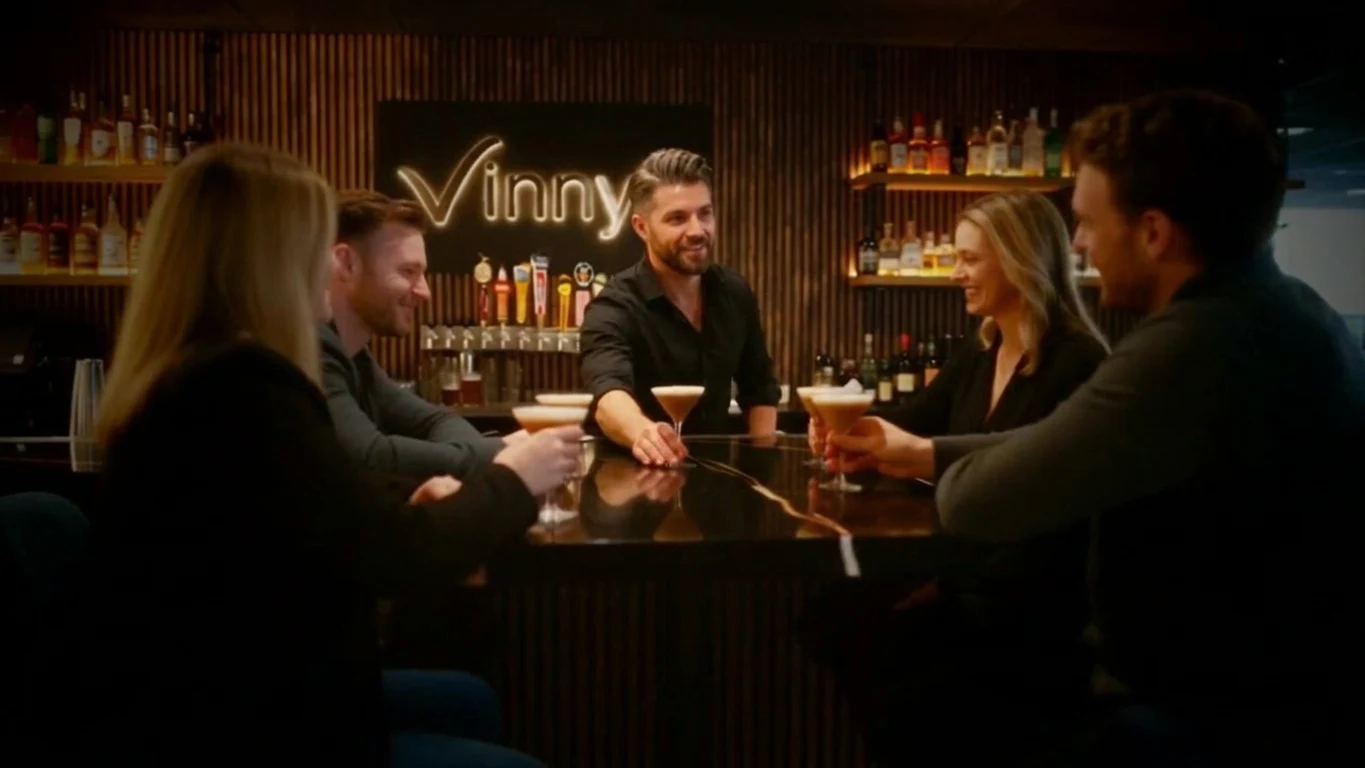
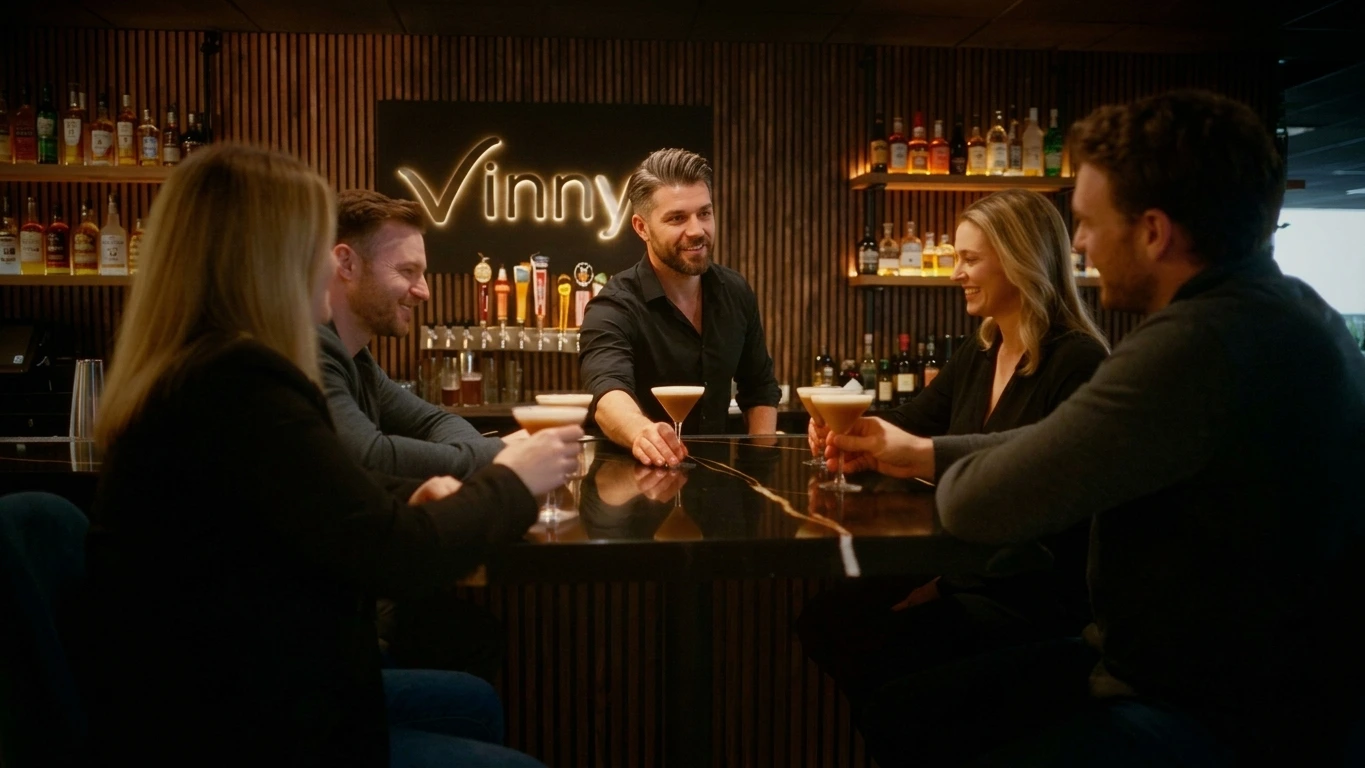
Replace Happy Hour image with sharper owner supplied version

diff --git a/docs/supplied-photography.md b/docs/supplied-photography.md
@@ -13,3 +13,5 @@ The Product Owner supplied five JPEGs and authorized resizing for site use. WebP
 The upload filenames contain “Code_Generated_Image”; image provenance has not been independently established. Do not describe them as verified unedited restaurant photographs. Owner approval covers site use; captions describe visible content without inventing specific menu names, ingredients or prices. No CMS/D1 edits were made.
 
 2026-11-15: Owner supplied `Gemini_Generated_Image_dxmaqudxmaqudxma.jpeg` as the corrected Happy Hour card image. Optimized as `bartender-supplied.webp` (1365×768); used only for the middle homepage occasion card. Generated atmosphere imagery, not a documentary photograph of the venue. Hero poster and reel remain unchanged.
+
+Owner supplied `Gemini_Generated_Image_6srovh6srovh6sro.jpeg` as the sharper replacement for the Happy Hour card. Re-encoded at WebP quality 92 with its native 1365×768 dimensions preserved; placement and crop unchanged. Original source remains untouched.
